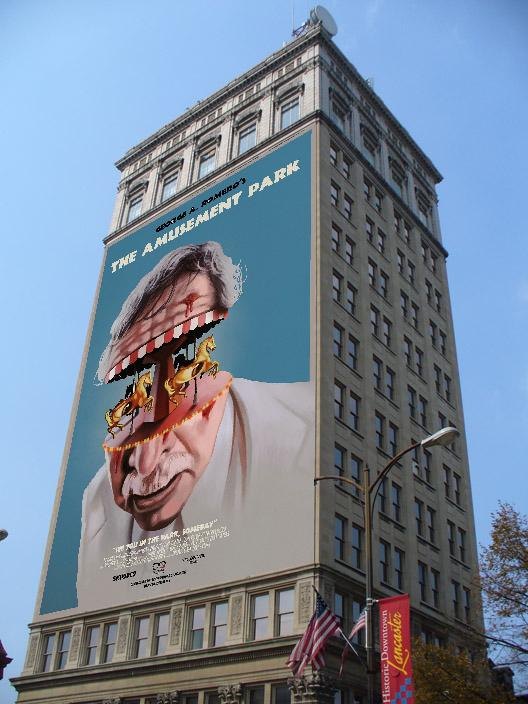
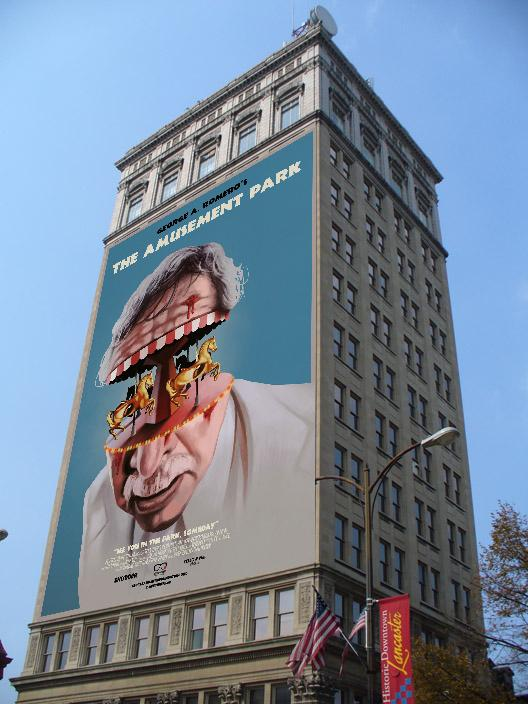
Able to answer report with code

diff --git a/assignment2/q2/q2.py b/assignment2/q2/q2.py
@@ -1,6 +1,105 @@
-from PIL import Image
+# from PIL import Image
+# import numpy as np
+# from applyhomography import applyhomography
+
+# def find_homography(pts_src, pts_dst):
+#     A = []
+#     for i in range(4):
+#         x, y = pts_src[i][0], pts_src[i][1]
+#         u, v = pts_dst[i][0], pts_dst[i][1]
+#         A.append([-x, -y, -1, 0, 0, 0, u*x, u*y, u])
+#         A.append([0, 0, 0, -x, -y, -1, v*x, v*y, v])
+#     A = np.array(A)
+#     U, S, Vh = np.linalg.svd(A)
+#     L = Vh[-1, :] / Vh[-1, -1]
+#     H = L.reshape(3, 3)
+#     return H
+
+# def apply_homography(image, H):
+#     h, w = image.shape[:2]
+#     y, x = np.indices((h, w))
+#     homogeneous_coords = np.stack([x.ravel(), y.ravel(), np.ones_like(x).ravel()])
+#     transformed_coords = H @ homogeneous_coords
+#     transformed_coords /= transformed_coords[2]
+#     x_transformed, y_transformed = transformed_coords[:2].round().astype(int)
+    
+#     mask = (x_transformed >= 0) & (x_transformed < w) & (y_transformed >= 0) & (y_transformed < h)
+#     x_valid, y_valid = x_transformed[mask], y_transformed[mask]
+    
+#     output = np.zeros_like(image)
+#     output[y_valid, x_valid] = image[y.ravel()[mask], x.ravel()[mask]]
+    
+#     return output
+
+# # Load images
+# poster = Image.open('amuse.jpg')
+# poster = np.array(poster)
+# building = Image.open('griest.jpg')
+# building = np.array(building)
+
+# h, w, _ = poster.shape
+
+# pts_dst = np.array([[106, 246], [315,124], [35,621], [313,561]])
+# pts_src = np.array([[0,0], [w-1,0], [0,h-1], [w-1,h-1]])
+
+# H = find_homography(pts_src, pts_dst)
+# transformed = apply_homography(poster, H)
+
+# building_pil = Image.fromarray(building)
+# transformed_pil = Image.fromarray(transformed.astype('uint8'), 'RGB')
+
+# mask = Image.new('L', transformed_pil.size, 0)
+# mask_data = transformed.sum(axis=2) != 0  # True where the image is not black
+# mask = Image.fromarray((mask_data * 255).astype('uint8'), 'L')
+
+# building_pil.paste(transformed_pil, (0, 0), mask)
+# building_pil.save('output.jpg')
+# transformed_pil.save('transform.jpg')
+
 import numpy as np
-from applyhomography import applyhomography
+import numpy.linalg as la
+from PIL import Image
+
+def apply_homography(A, H):
+    A = A.astype(float)
+    m, n, c = A.shape
+    
+    # Forward transform the corners
+    corners = np.array([[0, 0, 1], [n-1, 0, 1], [0, m-1, 1], [n-1, m-1, 1]]).T
+    transformed_corners = np.dot(H, corners)
+    transformed_corners /= transformed_corners[2, :]
+    
+    minx = np.floor(np.min(transformed_corners[0, :]))
+    maxx = np.ceil(np.max(transformed_corners[0, :]))
+    miny = np.floor(np.min(transformed_corners[1, :]))
+    maxy = np.ceil(np.max(transformed_corners[1, :]))
+    
+    nn = int(maxx - minx)
+    mm = int(maxy - miny)
+    
+    B = np.zeros((mm, nn, c)) + 255
+    Hi = la.inv(H)
+    
+    for x in range(nn):
+        for y in range(mm):
+            p = np.array([x + minx, y + miny, 1]).reshape((3, 1))
+            pp = np.dot(Hi, p)
+            xp, yp = pp[0]/pp[2], pp[1]/pp[2]
+            
+            xpf, xpc = int(np.floor(xp)), int(np.floor(xp)) + 1
+            ypf, ypc = int(np.floor(yp)), int(np.floor(yp)) + 1
+            
+            if 0 <= xpf < n and 0 <= ypf < m and 0 <= xpc < n and 0 <= ypc < m:
+                B[y, x, :] = (
+                    (xpc - xp) * (ypc - yp) * A[ypf, xpf, :] +
+                    (xpc - xp) * (yp - ypf) * A[ypc, xpf, :] +
+                    (xp - xpf) * (ypc - yp) * A[ypf, xpc, :] +
+                    (xp - xpf) * (yp - ypf) * A[ypc, xpc, :]
+                )
+            else:
+                B[y, x, :] = 255  # White pixel where no mapping occurs
+    
+    return B.astype(np.uint8)
 
 def find_homography(pts_src, pts_dst):
     A = []
@@ -10,48 +109,34 @@ def find_homography(pts_src, pts_dst):
         A.append([-x, -y, -1, 0, 0, 0, u*x, u*y, u])
         A.append([0, 0, 0, -x, -y, -1, v*x, v*y, v])
     A = np.array(A)
-    U, S, Vh = np.linalg.svd(A)
+    _, _, Vh = np.linalg.svd(A)
     L = Vh[-1, :] / Vh[-1, -1]
-    H = L.reshape(3, 3)
-    return H
-
-def apply_homography(image, H):
-    h, w = image.shape[:2]
-    y, x = np.indices((h, w))
-    homogeneous_coords = np.stack([x.ravel(), y.ravel(), np.ones_like(x).ravel()])
-    transformed_coords = H @ homogeneous_coords
-    transformed_coords /= transformed_coords[2]
-    x_transformed, y_transformed = transformed_coords[:2].round().astype(int)
-    
-    mask = (x_transformed >= 0) & (x_transformed < w) & (y_transformed >= 0) & (y_transformed < h)
-    x_valid, y_valid = x_transformed[mask], y_transformed[mask]
-    
-    output = np.zeros_like(image)
-    output[y_valid, x_valid] = image[y.ravel()[mask], x.ravel()[mask]]
-    
-    return output
+    return L.reshape(3, 3)
 
 # Load images
-poster = Image.open('amuse.jpg')
-poster = np.array(poster)
-building = Image.open('griest.jpg')
-building = np.array(building)
+poster = np.array(Image.open('amuse.jpg'))
+building = np.array(Image.open('griest.jpg'))
 
 h, w, _ = poster.shape
 
-pts_dst = np.array([[106, 246], [315,124], [35,621], [313,561]])
-pts_src = np.array([[0,0], [w-1,0], [0,h-1], [w-1,h-1]])
+pts_dst = np.array([[106, 246], [315, 124], [35, 621], [313, 561]])
+pts_src = np.array([[0, 0], [w-1, 0], [0, h-1], [w-1, h-1]])
 
 H = find_homography(pts_src, pts_dst)
 transformed = apply_homography(poster, H)
 
-building_pil = Image.fromarray(building)
-transformed_pil = Image.fromarray(transformed.astype('uint8'), 'RGB')
+# Compensate the paste operation using the offset
+offset_x, offset_y = int(min(pts_dst[:, 0])), int(min(pts_dst[:, 1]))
 
-mask = Image.new('L', transformed_pil.size, 0)
-mask_data = transformed.sum(axis=2) != 0  # True where the image is not black
+building_pil = Image.fromarray(building)
+transformed_pil = Image.fromarray(transformed)
+
+# Improved mask creation: check if any pixel in any channel is different from 255 (white)
+mask_data = np.any(transformed != 255, axis=2)
 mask = Image.fromarray((mask_data * 255).astype('uint8'), 'L')
 
-building_pil.paste(transformed_pil, (0, 0), mask)
+# Paste the transformed image onto the building image
+building_pil.paste(transformed_pil, (offset_x, offset_y), mask)
 building_pil.save('output.jpg')
 transformed_pil.save('transform.jpg')
+
